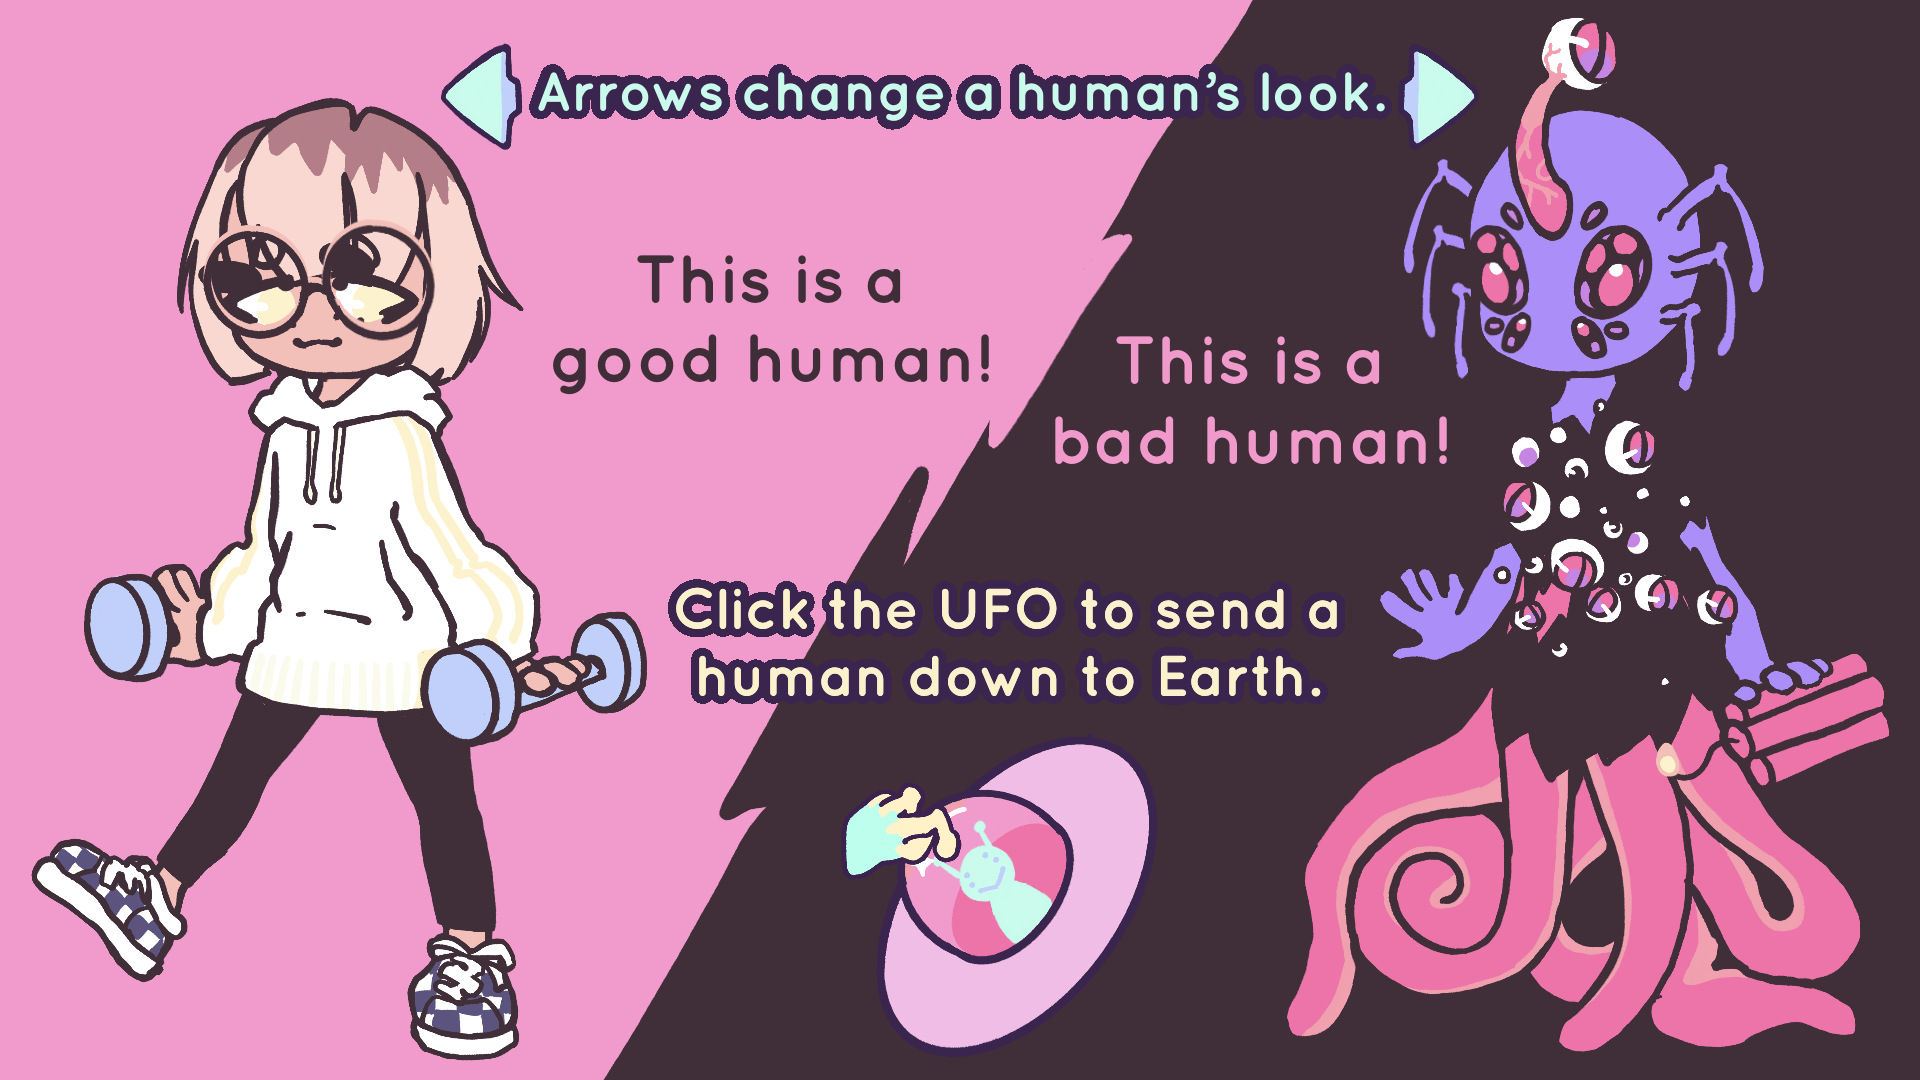
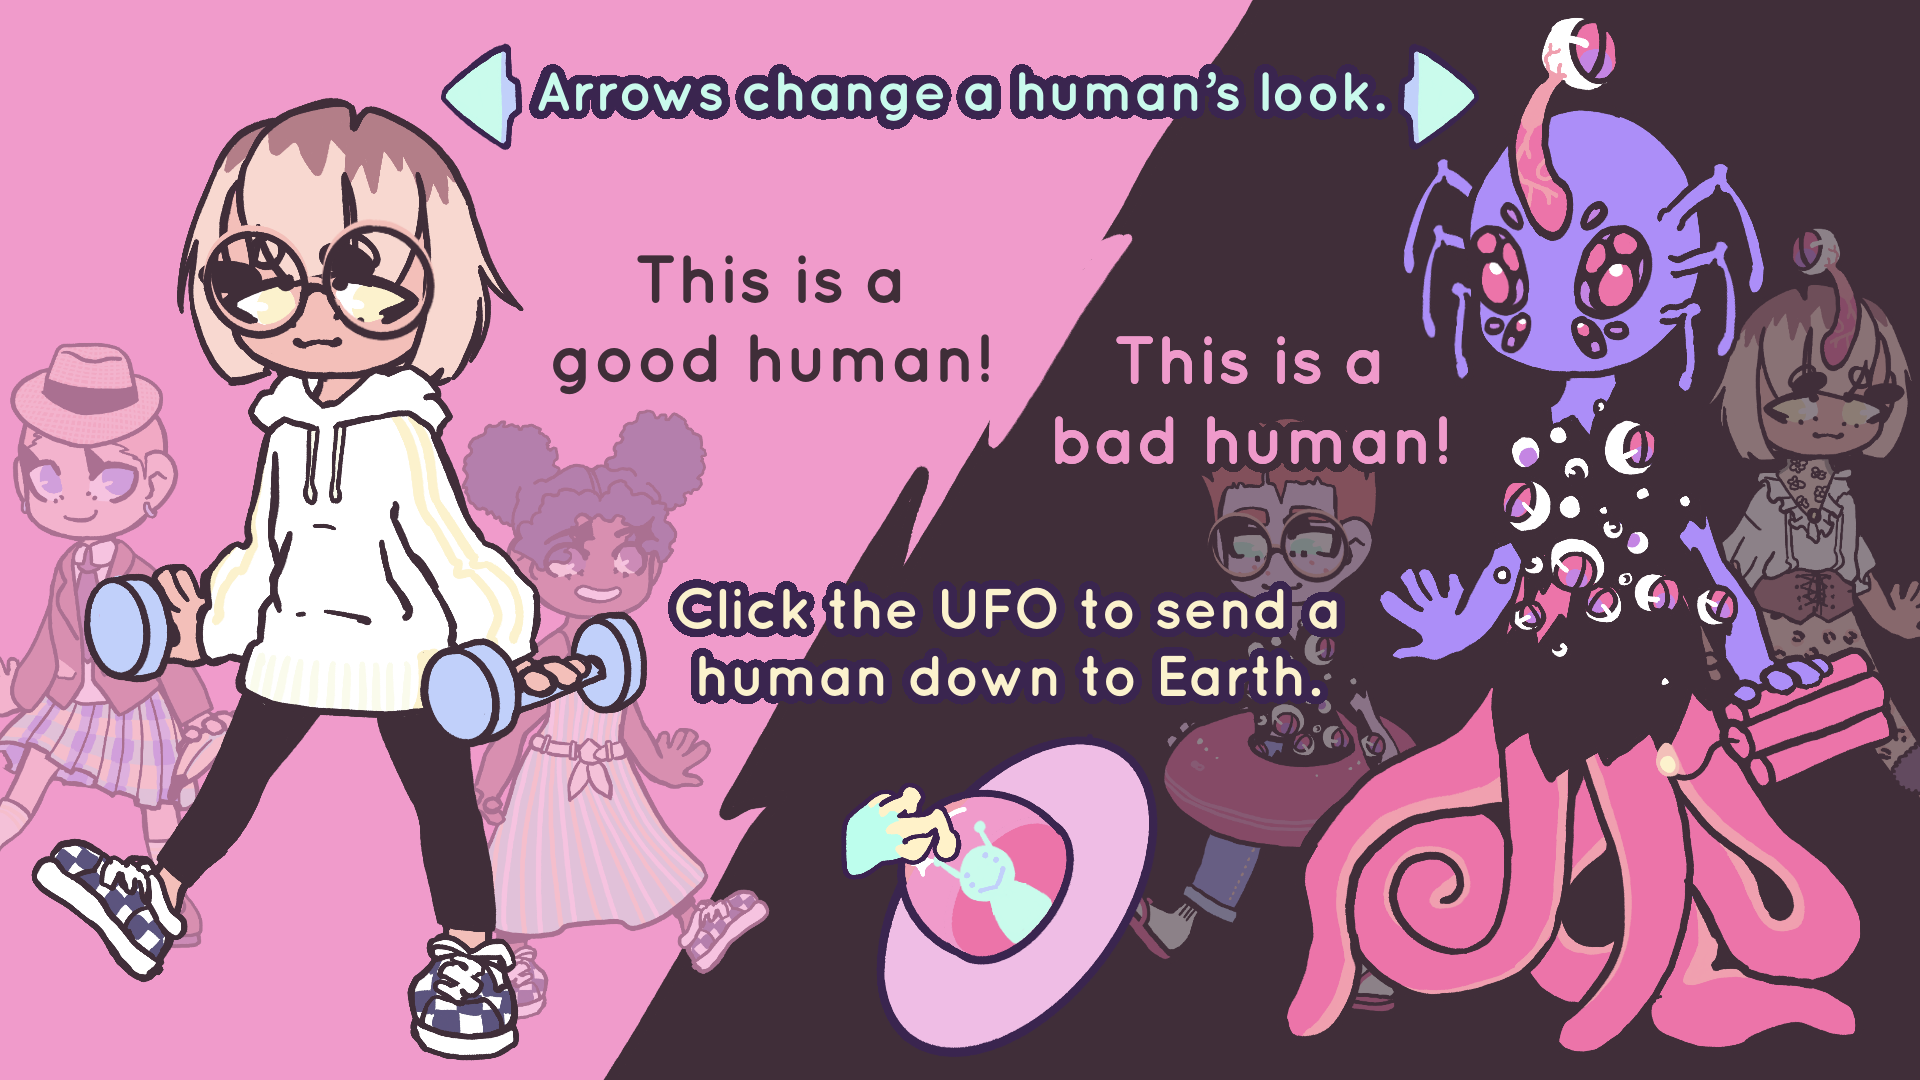
Randomize clothes order as well

diff --git a/src/Core/UI/UIHuman.cpp b/src/Core/UI/UIHuman.cpp
@@ -105,6 +105,18 @@ void UIHuman::rollTheDice()
         float random = rand() / float(RAND_MAX) * m_layers[i].size();
 
         m_curLayer[i] = random;
+
+        for(int k = 0; k < m_layers[i].size(); k++) {
+            int r = k + rand() % (m_layers[i].size() - k);
+
+            SimpleTexture* temp = m_layers[i][k];
+            m_layers[i][k] = m_layers[i][r];
+            m_layers[i][r] = temp;
+
+            bool temp2 = m_layerBad[i][k];
+            m_layerBad[i][k] = m_layerBad[i][r];
+            m_layerBad[i][r] = temp2;
+        }
     }
 }
 

diff --git a/src/Core/UI/GUIPeople.cpp b/src/Core/UI/GUIPeople.cpp
@@ -89,7 +89,7 @@ void GUIPeople::addHuman(UIHuman human)
                     m_people[i].markForDeletion();
                 }
             }
-        }, 500);
+        }, 250);
 
         // delete bad human
         m_people[newHumanIndex].markForDeletion();
